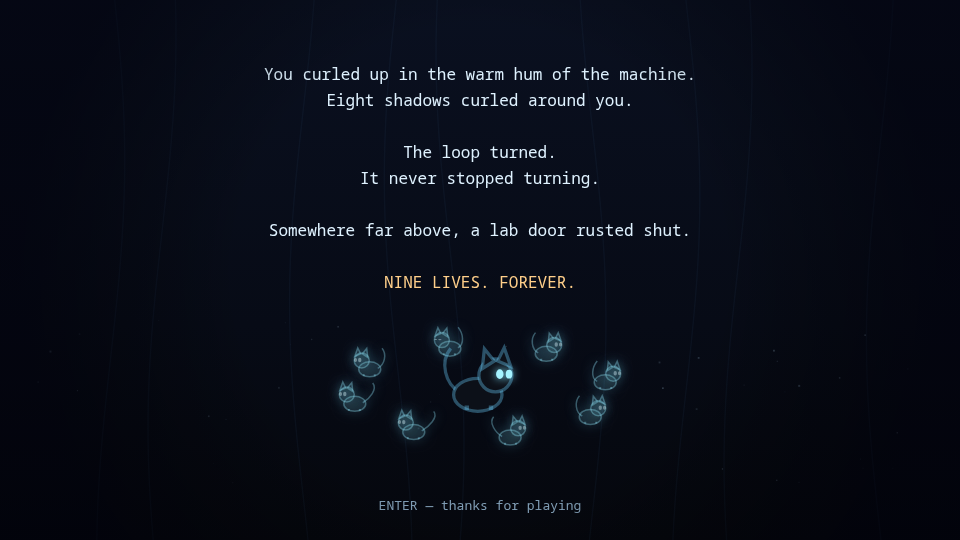
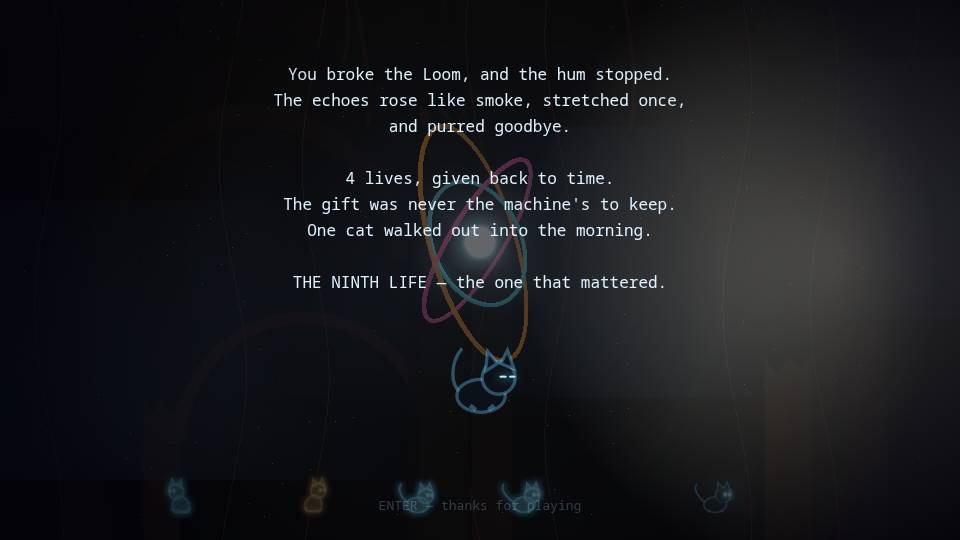
docs and gallery tell the truth again
The README and the Devpost kit still described a ten-room game with flat
corridors, a boss whose gaze was decorative, one drone for every biome, and
screenshots of layouts that no longer exist. Both now match what ships.

Every screenshot recaptured from the live build at the game's native 960x540,
via a CDP screenshot clip rather than a crop, so they are pixel-exact: the
atlas as a descending cave system, a canto card with both voices on screen at
once, CONVOY's switchback as evidence that the rooms really were rebuilt, a
passage with its HUD gone quiet, the First Cat mid-sweep with beams crossing
two held seals, and the break ending. Dropped the two stale room shots.

Claims were audited against the code rather than restated: husk, warden and
shard counts, the controls table, the tick order, the biome and level counts,
and the boss timing. That last one was measured, not assumed — the finale's
door is passable only from tick 613, the col-13 seal burns at 740 (its band's
third strike lands at t=690, lethal from +50), and the proven clear runs to
717, so it really does thread a 127-tick window.

Full QA pass behind this: all thirteen levels entered and read, chamber
numbering confirmed to skip passages so the finale is still the tenth, and the
cross-level flows exercised — rewind narration, the no-rewinds-left flash, the
fail screen and its recovery, pause and the return to the atlas, mute, the
stay ending, husk epitaphs and shard pickup. No console or page errors
[…]

diff --git a/SUBMISSION.md b/SUBMISSION.md
@@ -15,23 +15,38 @@ Cats have nine lives — and roguelikes and time-loopers make you spend lives
 anyway. We fused them: what if *dying or rewinding* didn't just reset the
 level, but left a **ghost of you that replays your exact run** — and the
 puzzles required cooperating with your own past lives? Visual mood borrows
-from Hollow Knight's glowing dark; the ending choice owes a debt to
-Infamous 2's sacrifice finale.
+from Hollow Knight's glowing dark; the narrator's past tense owes a debt to
+Prince of Persia; the ending choice, to Infamous 2's sacrifice finale.
 
 ## What it does
 
 THE NINTH ECHO is a time-loop puzzle-platformer. Each chamber runs a 15-second
 loop. Press R and time rewinds — but a life stays behind: an echo that repeats
 your last run, input for input. Echoes hold pressure plates, shove crates and
-stand in spike pits so the current you can get through. Nine lives per
-chamber, ten chambers across five visual biomes, spectral wardens, hidden
-claw-shard relics, and a finale boss — with **three endings** (one hidden
-behind assembling the Claw of the First Cat).
+stand in spike pits so the current you can get through. Nine lives per chamber.
+
+Thirteen levels descend through five visual biomes: **ten puzzle chambers**
+plus **three traversal-only passages** — THE DROP, THE SEAM, THE VEIN — that
+sit at the biome boundaries and have no puzzle, no timer and no life count, so
+each change of colour lands on a held breath.
+
+Wrapped around it is one continuous folktale in two voices: **THE LOOM** in
+gold uppercase, and a lowercase narrator who turns out at Canto IX to be the
+First Cat itself, grieving the machine humans built to steal its gift. Ten
+chambers open on canto title cards. Thirteen petrified husks speak their
+epitaphs when you stand close. Before the finale, a vigil: every life you spent
+stands up out of the floor and walks in beside you.
+
+Then the boss — the First Cat — fought entirely with the loop. Three seals must
+be held at once and two of them sit under its gaze, so the echoes you park
+there burn off unless you time the parking against the sweep. **Three endings**,
+one of them hidden behind assembling the Claw of the First Cat from three
+scattered shards.
 
 And you are never alone: when you clear a chamber, your winning runs upload —
 other players see your **golden echo cat** solving the room alongside them in
 real time, and race your clear on the per-chamber leaderboard. Deterministic
-replay makes a whole run just a few hundred bytes.
+replay makes a whole run a few hundred bytes.
 
 ## How we built it
 
@@ -42,11 +57,18 @@ replayed through identical physics in an identical tick order. On top sits a
 chambers, particles — that only *reads* sim state, so visuals can never
 desync a replay. The rewind cutscene plays your actual recorded history
 backwards. All sound — the drone score, the tape-rewind sweep, the meow — is
-synthesized with WebAudio at runtime; there is not a single asset file. The
-cat is drawn procedurally onto a canvas texture billboarded into the scene.
+synthesized with WebAudio at runtime; there is not a single audio asset file.
+Every biome plays the same motif over the same chord shape with the root,
+interval colour, timbre, filter and pacing re-tuned underneath, so the score
+darkens as you descend; passages thin to drones and air, and the finale grows
+a tritone in the sub.
+The cat is drawn procedurally onto a canvas texture billboarded into the scene:
+bezier tail, squash and stretch, blinking, sitting down when you leave it
+alone, ears pinned flat when a warden's gaze winds up.
 Online: Node/Express behind **Caddy** on our own **Google Cloud VM**, serving
 the game and the echo/leaderboard API at **game.opxz.dev** — systemd-managed,
-JSON-file persistence, so the demo can't die mid-judging.
+JSON-file persistence (with an optional Firestore mirror), so the demo can't
+die mid-judging.
 
 ## Challenges we ran into
 
@@ -54,30 +76,61 @@ Determinism is unforgiving: one tick of divergence and an echo misses its
 plate. We locked the update order (boxes → ghosts oldest-first → player →
 plates/doors) and kept every simulation step free of randomness and
 wall-clock time. Level design was the other beast — several "obviously fine"
-rooms turned out to be geometrically impossible (jump heights, box-stair
-math), so we wrote a scripted bot that drives the real physics through full
-multi-ghost solutions and *proves* every room solvable.
+rooms turned out to be geometrically impossible (one wall was 90px tall
+against an 82px jump), so we wrote a scripted bot that drives the real physics
+through full multi-ghost solutions and *proves* every room solvable.
+
+That proof then convicted our own boss fight. Every seal in the finale sat
+outside every beam column, and three echoes could park on them and open the
+exit long before the first lethal window ever arrived — the gaze threatened
+nothing at all. Rebuilt, two of the three seals now stand inside beam bands, so
+each echo has to arrive after that band's second strike and is burned off by
+its third: the door is only held open between ticks 613 and 740 of the
+900-tick loop, and the proven clear runs to tick 717. Most of the fight is
+now spent waiting out the sweep on the one stone no band covers.
 
 ## Accomplishments we're proud of
 
-Every level is machine-verified solvable, including both endings. The
-simulation core is dependency-free and byte-exact — exact enough that a
-stranger's 300-byte input recording replays perfectly on your machine, which
-is the entire world-echo feature. And the whole thing — engine, ten rooms,
-story, two endings, synthesized score, online play — was built in one
-two-day sprint.
+Every level is machine-verified solvable and the proof ships in the repo:
+`bun run proof` prints 13/13 and exits non-zero if any chamber regresses —
+including the finale, which it must clear through the gaze schedule to the
+break exit, not around it. The simulation core is dependency-free and
+byte-exact — exact enough that a stranger's few-hundred-byte input recording
+replays perfectly on your machine, which is the entire world-echo feature. And
+the whole thing — engine, thirteen levels, a folktale in two voices, three
+endings, synthesized score, online play — was built in one two-day sprint.
 
 ## What we learned
 
 Record-and-replay is a superpower: once your simulation is deterministic, you
-get ghosts, rewind cinematics, and automated playtesting nearly for free.
+get ghosts, rewind cinematics, and automated playtesting nearly for free. And
+the automated playtest is a design critic, not just a regression test — it was
+the bot, not us, that noticed the boss couldn't kill anything.
 
 ## What's next
 
 More paradox rooms (echo-vs-echo interference is barely explored), speedrun
 timer, and touch controls.
 
-**Built with:** javascript, three.js, webgl, webaudio, node.js, express, google-cloud-run, firestore
+**Built with:** javascript, three.js, webgl, webaudio, node.js, express,
+google-compute-engine, caddy, firestore
+
+---
+
+# Gallery images
+
+All captured from the live build at the game's native 960×540. In `shots/`:
+
+| File | What it shows |
+|------|---------------|
+| `title.png` | title screen — lead image |
+| `map.png` | the atlas: thirteen levels descending through five biomes, boss pin at the bottom |
+| `canto.png` | a canto card with its four lines told — the Loom's gold voice against the narrator's |
+| `echoes.png` | ASCENT: an echo parked on the floor plate, the ceiling door it opens, the climb |
+| `switchback.png` | CONVOY rebuilt as a switchback: three shelves, a door gating each leg, echoes parked along the route |
+| `passage.png` | THE VEIN — a passage falling into the ember heart, HUD gone quiet |
+| `boss.png` | the First Cat mid-sweep: beams crossing two of the three held seals |
+| `ending.png` | the break ending (spoiler — gallery only, not in the README) |
 
 ---
 
@@ -86,30 +139,47 @@ timer, and touch controls.
 Record at 1080p with game audio ON (the audio is a feature). OBS: capture the
 browser tab, full screen the game first.
 
-1. **0:00–0:15 — Cold open.** Title screen. Let the drone play a beat, press
+1. **0:00–0:12 — Cold open.** Title screen. Let the drone play a beat, press
    ENTER (meow!). Say the one-liner: "The Ninth Echo — you solve puzzles by
    cooperating with your own past lives."
-2. **0:15–0:45 — The hook (chamber 3, ECHO).** Stand on the plate, press R on
-   camera. Let the rewind effect play fully. Then walk through the door your
-   echo holds open. Narrate: "Rewinding spends a life — and my past self
+2. **0:12–0:30 — The two voices.** Enter a chamber and let the canto card hold:
+   "CANTO IV — The Ledger of Bone". Read one gold LOOM line and one lowercase
+   narrator line aloud so the viewer hears the difference. Walk up to a husk so
+   its epitaph fades in ("PIP. Held a door for a sister who never came.").
+3. **0:30–1:00 — The hook (ASCENT).** Walk to the plate on the floor, press R
+   on camera. Let the rewind effect play fully — the narrator's line lands over
+   it. Then climb the ledges while your echo holds the plate and the ceiling
+   door stays open. Narrate: "Rewinding spends a life — and my past self
    replays my run, exactly."
-3. **0:45–1:15 — Escalation montage.** Quick cuts: NINE (die on spikes once —
-   show the life counter drop), WEIGHT (slot the crate into the floor
-   socket), SACRIFICE (drop an echo into the pit, jump over it).
-4. **1:15–1:50 — The showpiece (chamber 9, PARADOX).** Show three echoes
-   working at once: one holding the door, one pushing the crate and climbing.
-   Narrate: "Deterministic replay of recorded inputs — and it's online:
-   that golden cat is a real player's winning run, replaying live in my room."
-   Point at the leaderboard on the map screen.
-5. **1:50–2:20 — The boss + the choice.** Chamber 10: the First Cat's gaze
-   hammers the arena while three echoes hold the seals — show one beam death,
-   then the coordinated run to the break exit. Or walk to the warm door and
-   stay. Let the ending text type out.
-6. **2:20–2:40 — End card.** Map screen (all rooms lit), then title. Voice:
-   "The Ninth Echo — playable in your browser, link below. Both endings are
-   worth it."
+4. **1:00–1:25 — Rooms with shape.** Quick cuts: NINE (a stepped descent —
+   die on spikes once, show a life pip drop, and detour into the dead-end
+   pocket for a claw shard), CHAIN (two storeys joined by a chimney, an echo
+   parked on each), CONVOY (the switchback folding back on itself, three
+   echoes marched through three doors in order).
+5. **1:25–1:40 — A passage.** Drop into THE VEIN. Point out that the HUD goes
+   quiet — no timer arc, no life pips, no chamber number — while the palette
+   turns ember. "Three of these sit between the biomes. No puzzle. Just the
+   way down."
+6. **1:40–1:55 — The showpiece (PARADOX).** Three lives in one room: one echo
+   parked on the high ledge plate, one shoving the crate against the block and
+   climbing it to the second plate, and you crossing between them once the
+   warden's gaze has swept. Narrate: "Deterministic replay of recorded inputs —
+   and it's online: that golden cat is a real player's winning run, replaying
+   live in my room." Cut to the atlas and point at the leaderboard.
+7. **1:55–2:10 — The vigil.** Enter the ember heart and let the vigil play
+   uncut: the spent lives rising out of the floor, "Nine of you walked toward
+   the ember heart together."
+8. **2:10–2:40 — The boss + the choice.** THE NINTH LIFE: park echoes on the
+   three seals, show one being burned off a seal by the gaze, then the timed
+   run through the door in the gap between strikes. Or walk left to the warm
+   door and stay. Let the ending text type out.
+9. **2:40–2:55 — End card.** The atlas with every room lit, then the title.
+   Voice: "The Ninth Echo — playable in your browser, link below. There are
+   three endings. All of them are worth it."
 
-Tip: pre-clear rooms 1–8 before recording so the map looks full; use a fresh
-browser profile if you want the tutorial experience instead (progress lives
-in localStorage — DevTools → Application → Local Storage → delete
-`ninthecho_unlocked` to reset).
+Tip: pre-clear the early rooms before recording so the atlas looks full; use a
+fresh browser profile if you want the tutorial experience instead. Progress
+lives in localStorage — DevTools → Application → Local Storage → delete
+`ninthecho_unlocked5` (and `ninthecho_claw5`, `ninthecho_name`) to reset.
+Loading the game with `?debug` adds two capture-only keys: **K** force-clears
+the current chamber, **L** teleports to that chamber's claw shard.

diff --git a/README.md b/README.md
@@ -15,15 +15,25 @@ runs on a **15-second loop**. When you press **R** (or time runs out, or you
 die), the world rewinds — but **a life stays behind**: a ghost of you that
 replays your last run, input for input.
 
-Your past lives hold pressure plates, shove crates, and stand in pits so the
+Your past lives hold pressure plates, shove crates and stand in pits so the
 current you can walk through doors they keep open. You have nine lives per
 chamber. Spend them wisely.
 
-The Loom re-dresses itself as you descend — rain-blue under-halls, a sepia
-bone archive, teal root-depths, the violet deep, and the ember heart. Wardens
-watch some chambers. At the heart, the game asks you one question — **two
-endings**. And those who gather all three shards of what the First Cat left
-behind will find a **third**.
+![echoes](shots/echoes.png)
+
+## The fable
+
+The story is one continuous folktale told in two voices. **THE LOOM** speaks in
+gold uppercase and taunts you. A second, lowercase narrator tells the tale in
+past tense — and at **Canto IX** it turns out to be the First Cat itself,
+grieving the machine the humans built to steal its gift.
+
+Ten chambers, ten cantos, each opening on a title card. Thirteen petrified cat
+husks are scattered through the ruin; stand close and the dead speak their
+epitaph. Before the finale a scripted **vigil** plays: every life you spent
+stands up out of the floor and walks in beside you.
+
+![canto](shots/canto.png)
 
 ## World echoes — you are never alone
 
@@ -35,8 +45,6 @@ array of inputs replayed through identical physics — on anyone's machine.
 Remote echoes run in a sandboxed shadow world, so they can never touch your
 puzzle.
 
-![paradox](shots/paradox.png)
-
 ## Controls
 
 | Key | Action |
@@ -44,7 +52,7 @@ puzzle.
 | ← → / A D | move |
 | ↑ / W / Space | jump |
 | **R** | rewind the loop (spends a life, leaves an echo) |
-| Esc | back to the map |
+| Esc / P | pause — then Q for the atlas |
 | M | mute |
 
 Desktop keyboard only — no touch controls.
@@ -54,7 +62,8 @@ Desktop keyboard only — no touch controls.
 - **Deterministic fixed-timestep core** (60 Hz, vanilla JS): input recorded
   per tick as a bitmask; ghosts replay that byte array through the exact same
   tick order (boxes → ghosts oldest-first → player → plates/doors). No
-  randomness, no wall-clock, no physics library — determinism is the game.
+  randomness, no wall-clock, no physics library in the simulation —
+  determinism is the game.
 - **three.js WebGL presentation**: bloom post-processing, dynamic point
   lights, depth-extruded chambers, particle systems, a camera that leans
   toward the cat. The render layer only *reads* sim state — it can never
@@ -62,41 +71,69 @@ Desktop keyboard only — no touch controls.
 - **The rewind is real**: every tick snapshots the world; the rewind cutscene
   plays your actual history backwards.
 - **All audio synthesized** at runtime with WebAudio — the drone score, the
-  tape-rewind sweep, the meow. Zero asset files.
+  tape-rewind sweep, the meow. Zero audio asset files. Every biome plays the
+  same motif over the same chord shape, re-tuned underneath: root, interval
+  colour, timbre, filter and pacing all darken on the way down, from a
+  rain-blue triangle at the top to an ember sawtooth at the heart. Passages
+  thin out to drones and air; the finale gets a tritone sitting in the sub.
 - **The cat is code**: bezier tail, squash & stretch, blinking — drawn to a
-  canvas texture billboarded into the WebGL scene.
+  canvas texture billboarded into the WebGL scene. Left alone it sits down; it
+  pins its ears flat when a warden's gaze is winding up.
 - **Server**: Node/Express behind Caddy (auto-HTTPS) on our own Google Cloud
   VM, serving the game and the echo/leaderboard API at `game.opxz.dev`, with
   JSON-file persistence and an optional Firestore mirror.
-- Every level is **machine-proven solvable**, and the proof ships: `bun
-  tools/solve.js` runs a waypoint bot through the real physics, records its
+- Every level is **machine-proven solvable**, and the proof ships: `bun run
+  proof` runs a waypoint bot through the real physics, records its per-tick
   inputs, and replays them as ghosts through the same code path the game uses.
-  13/13 in 38ms, non-zero exit if any chamber regresses.
+  13/13, non-zero exit if any chamber regresses — the finale included, which
+  it has to clear *through* the gaze schedule to the break exit.
 - Type-checked without a build step: `tsc --checkJs` over the plain JS
   (`bun run check`) — the browser runs exactly what's in this repo.
-
-![rewind](shots/rewind.png)
 
 ## The chambers
 
 Ten rooms, each teaching the loop a new trick: holding, chaining, weighing,
-sacrificing, ascending, marching, and one paradox. Between the biomes sit three
-passages — THE DROP, THE SEAM, THE VEIN — traversal-only shafts with no puzzle,
-no timer and no life count, so each change of colour lands on a held breath.
+sacrificing, ascending, marching, and one paradox. The Loom re-dresses itself
+as you descend — rain-blue under-halls, a sepia bone archive, teal
+root-depths, the violet deep, and the ember heart. Two chambers are watched by
+a spectral warden whose gaze sweeps fixed columns on a fixed schedule.
+
+![map](shots/map.png)
+
+Four of those rooms were rebuilt from flat corridors into real vertical
+space: ECHO's plate climbed three ledges up a wall, NINE became a stepped
+descent with a claw shard hidden in a dead-end pocket, CHAIN split into two
+storeys joined by a chimney, and CONVOY folded into a switchback — right along
+the bottom, up, back left along the middle shelf, up again, a door gating each
+leg.
+
+![switchback](shots/switchback.png)
+
+Between the biomes sit three passages — THE DROP, THE SEAM, THE VEIN —
+traversal-only shafts with no puzzle, no timer and no life count, so each
+change of colour lands on a held breath.
+
+![passage](shots/passage.png)
 
 Then the First Cat — a finale fought entirely with the loop itself. Three
 seals must be held at once, and two of them sit directly under its gaze, so
 the echoes you park there burn off unless you time the parking against the
-sweep. Learn the pattern or the door shuts behind you. Or take the warm door,
-and stay.
+sweep. The door only stays open for the gap between strikes. Learn the pattern
+or it shuts behind you. Or take the warm door, and stay.
 
-![map](shots/map.png)
+![boss](shots/boss.png)
+
+Three endings: break the Loom, stay in it, or **sever** it — the third is
+locked behind the three hidden claw shards that assemble the Claw of the First
+Cat. No screenshot of those here; go and earn one.
 
 ## Run it yourself
 
 ```
 bun install
 bun start          # http://localhost:8080 — works fully offline (in-memory board)
+bun run proof      # the solvability proof: 13/13, exits non-zero on regression
+bun run check      # tsc --checkJs, no build step
 ```
 
 ## Credits
